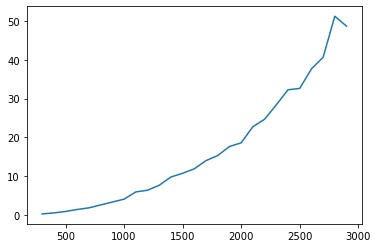
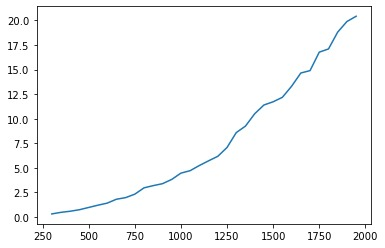
Update readme and image

diff --git a/README.md b/README.md
@@ -28,7 +28,9 @@ There are two methods which are de bruijn graph and overlap graph to read a DNA.
 
 ## Complexity and Speed
 
-![Speed of the implementation as shown in the graph.](https://github.com/isilypici/BioinformaticsOverlapGraph/blob/main/speedimage.jpeg)
+Number of data / time graph of the implementation as shown in the graph. Speed can also be observed according to this graph.
+
+![Speed of the implementation](https://github.com/isilypici/BioinformaticsOverlapGraph/blob/main/speedimage.jpeg)
 
 
  
